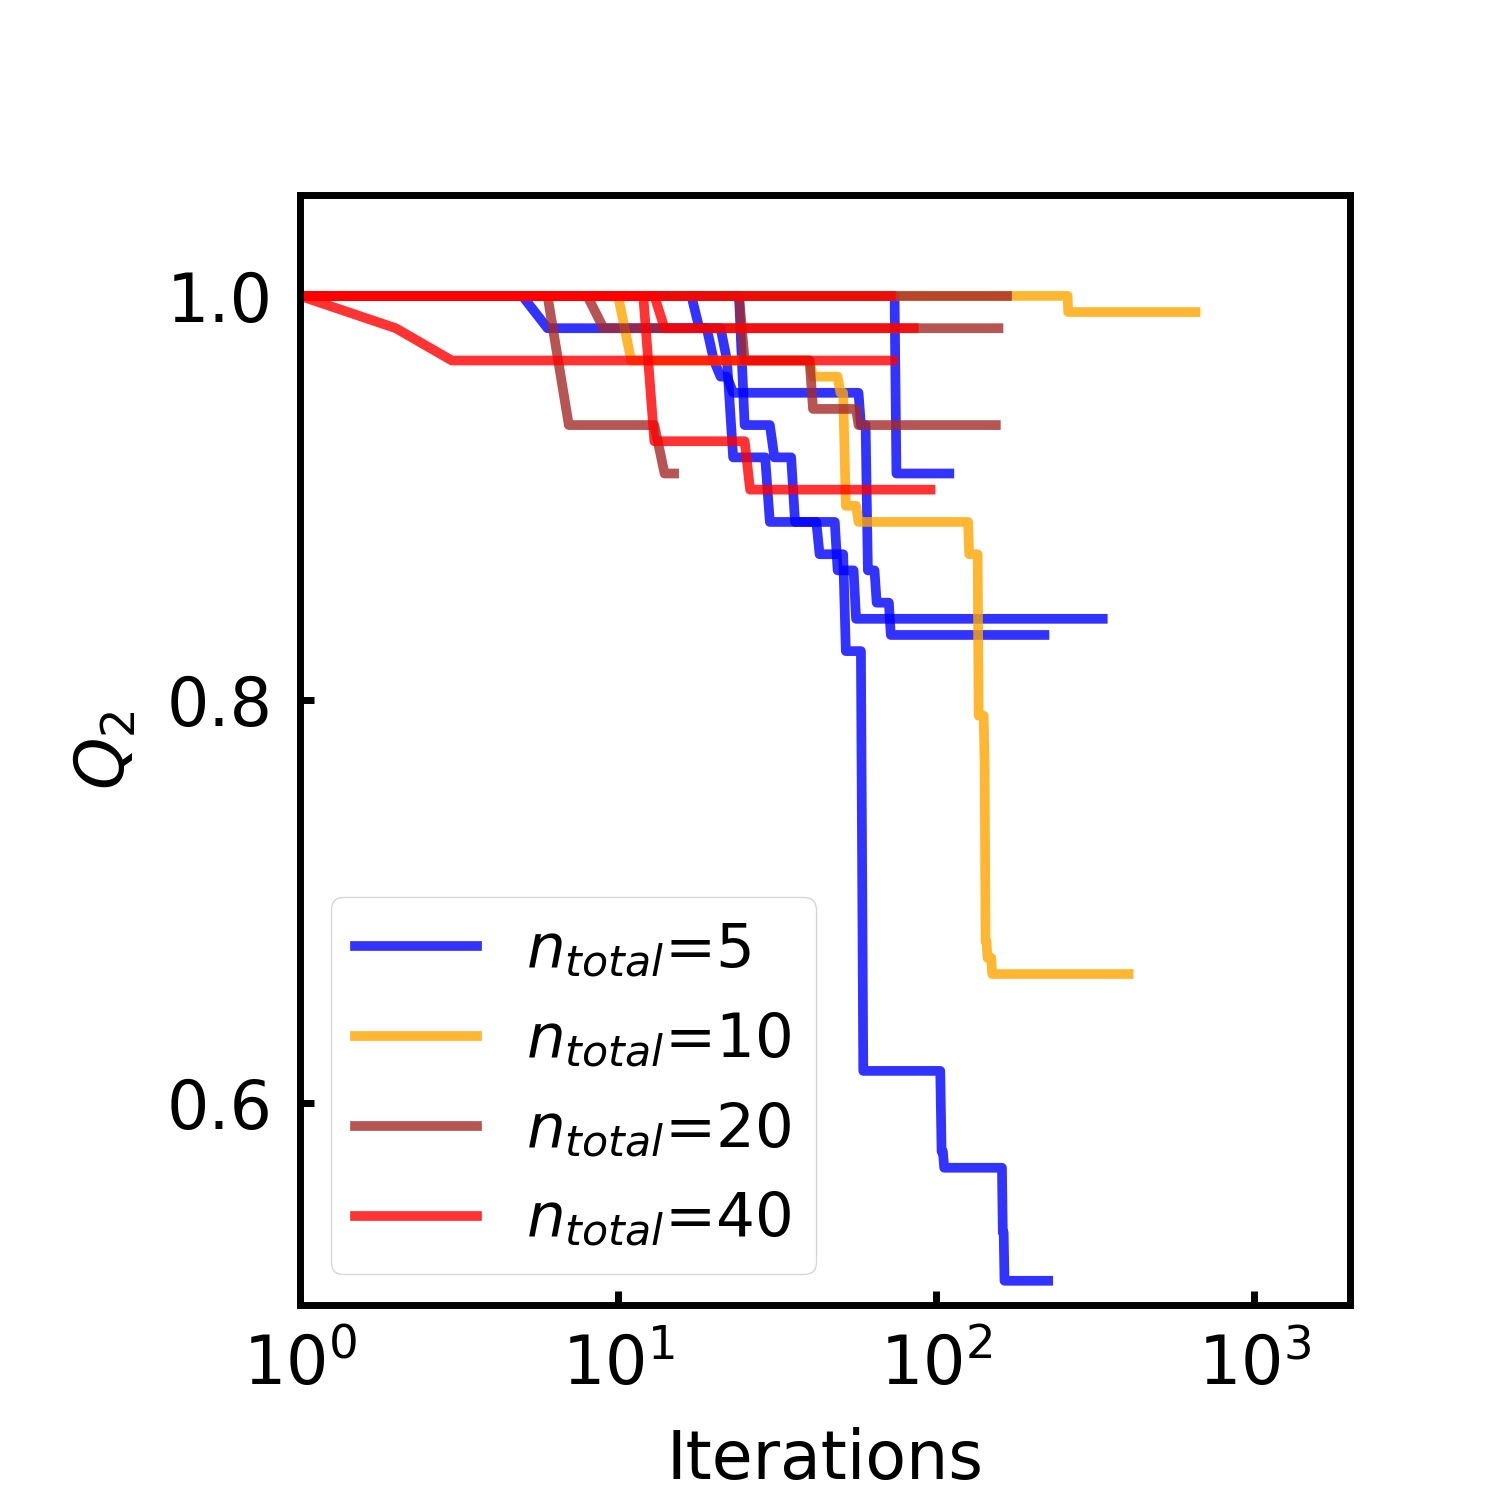
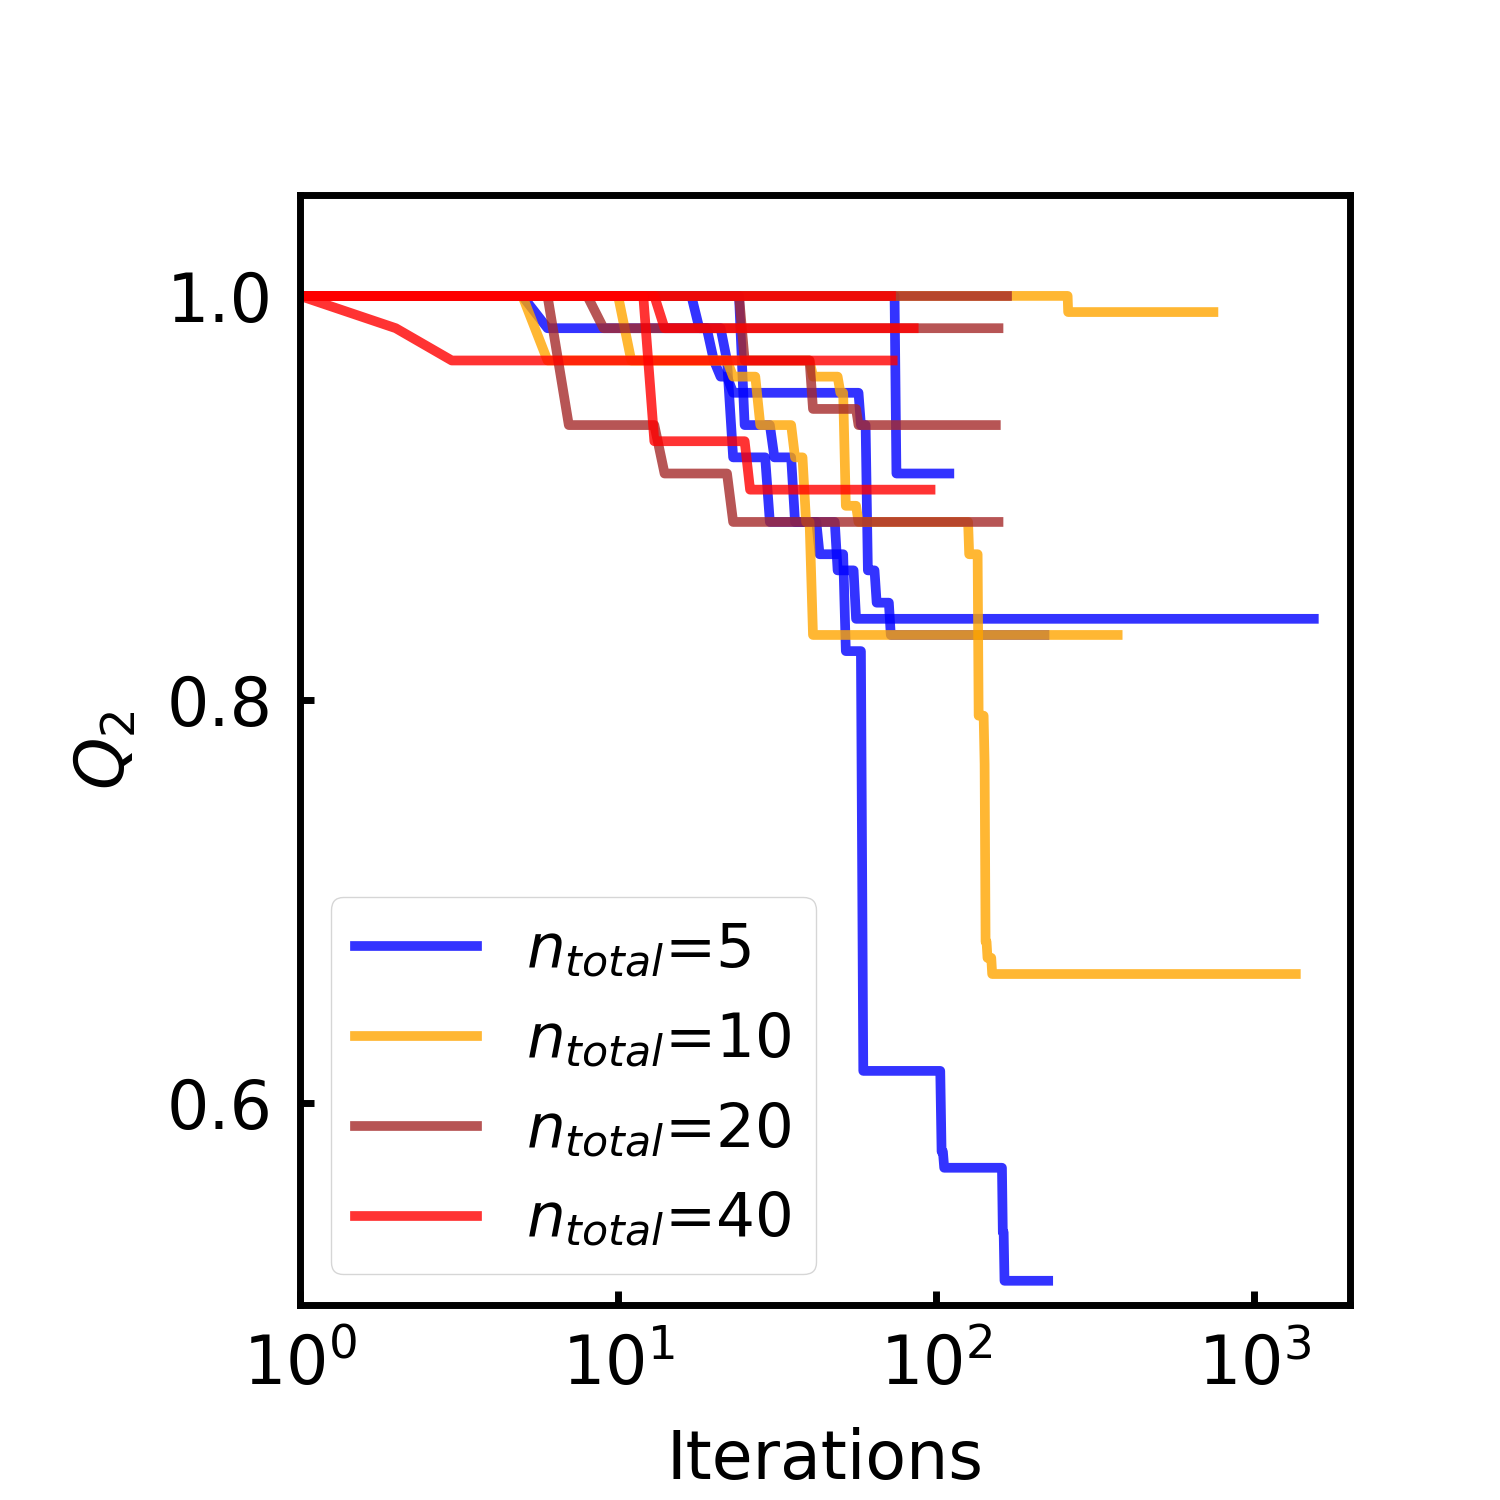
...

diff --git a/newplots.py b/newplots.py
@@ -86,7 +86,7 @@ def overlap_to_iters_n_spheroid():
 
 
 def s0_histograms():
-    
+    pass
 def main():
     error_to_iters_n_spheroid()
 
